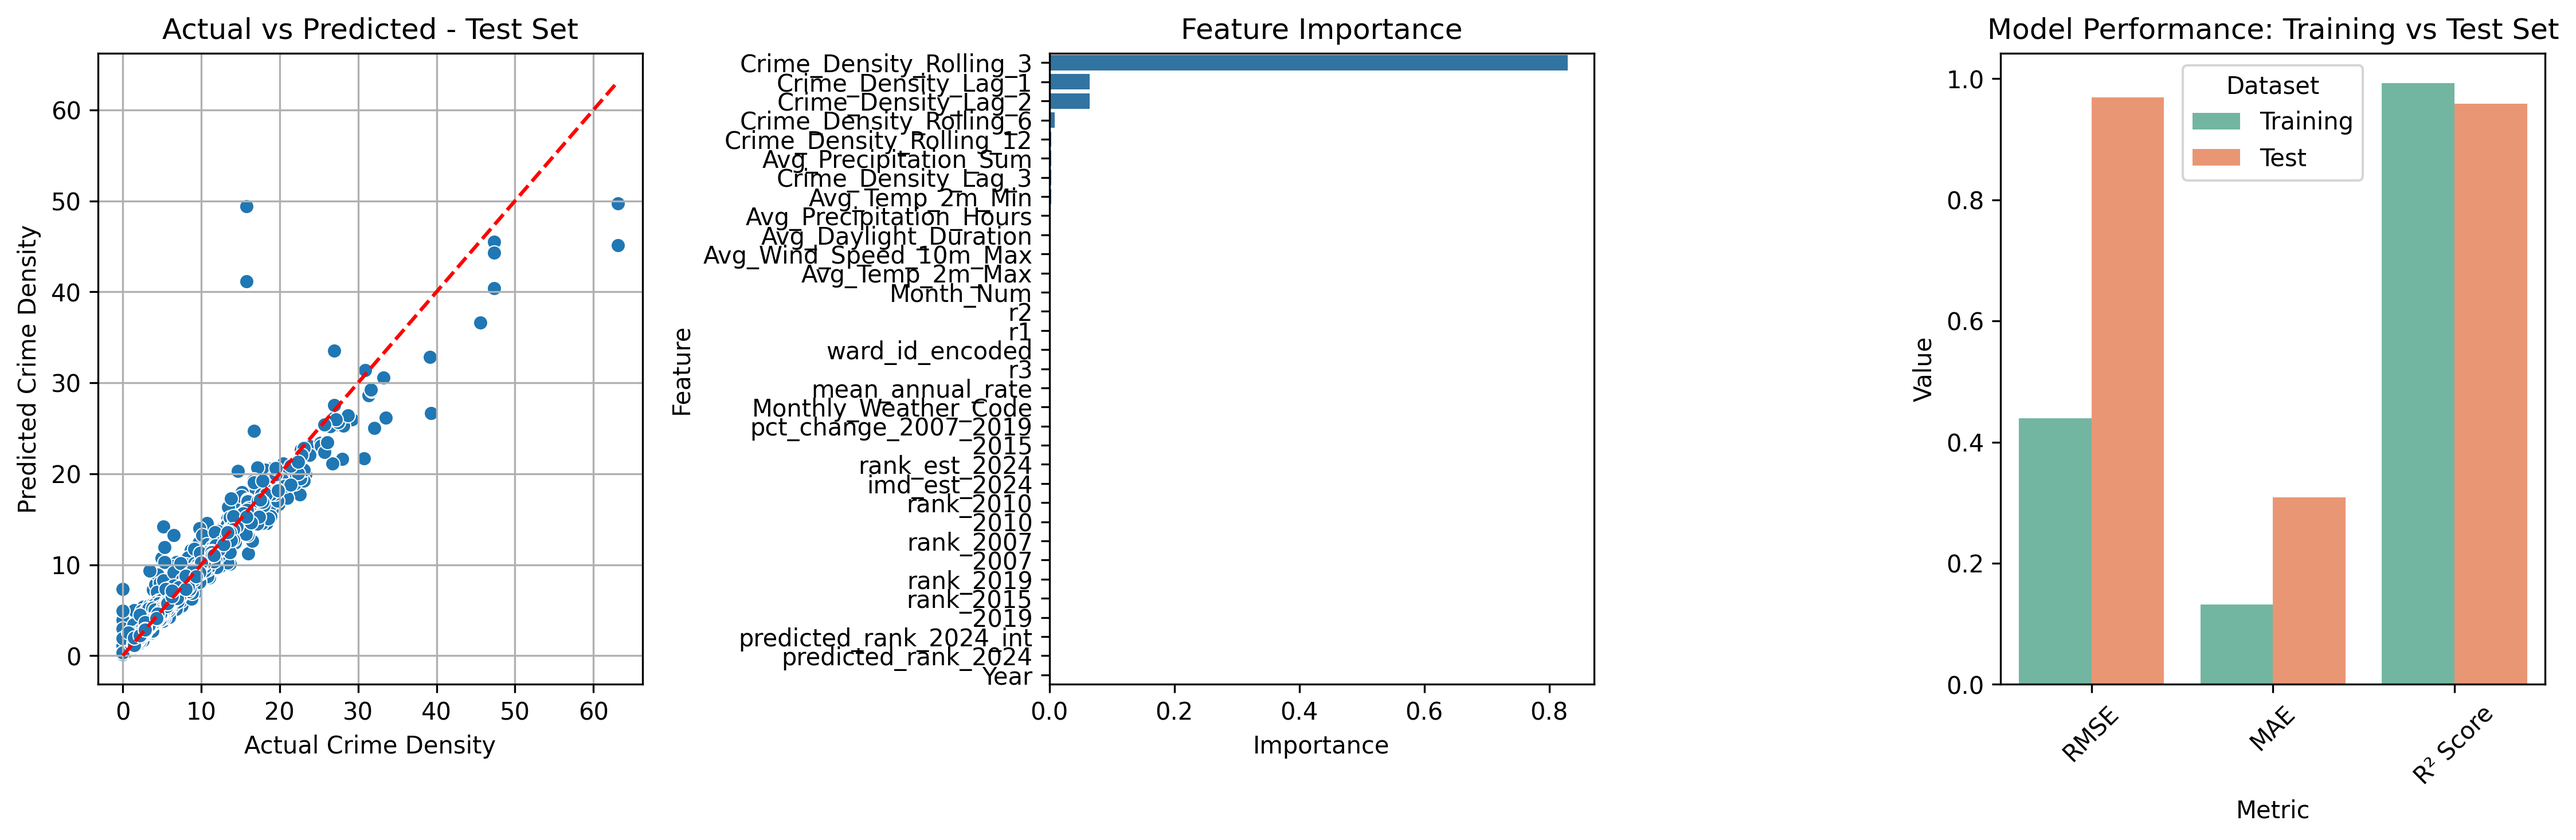
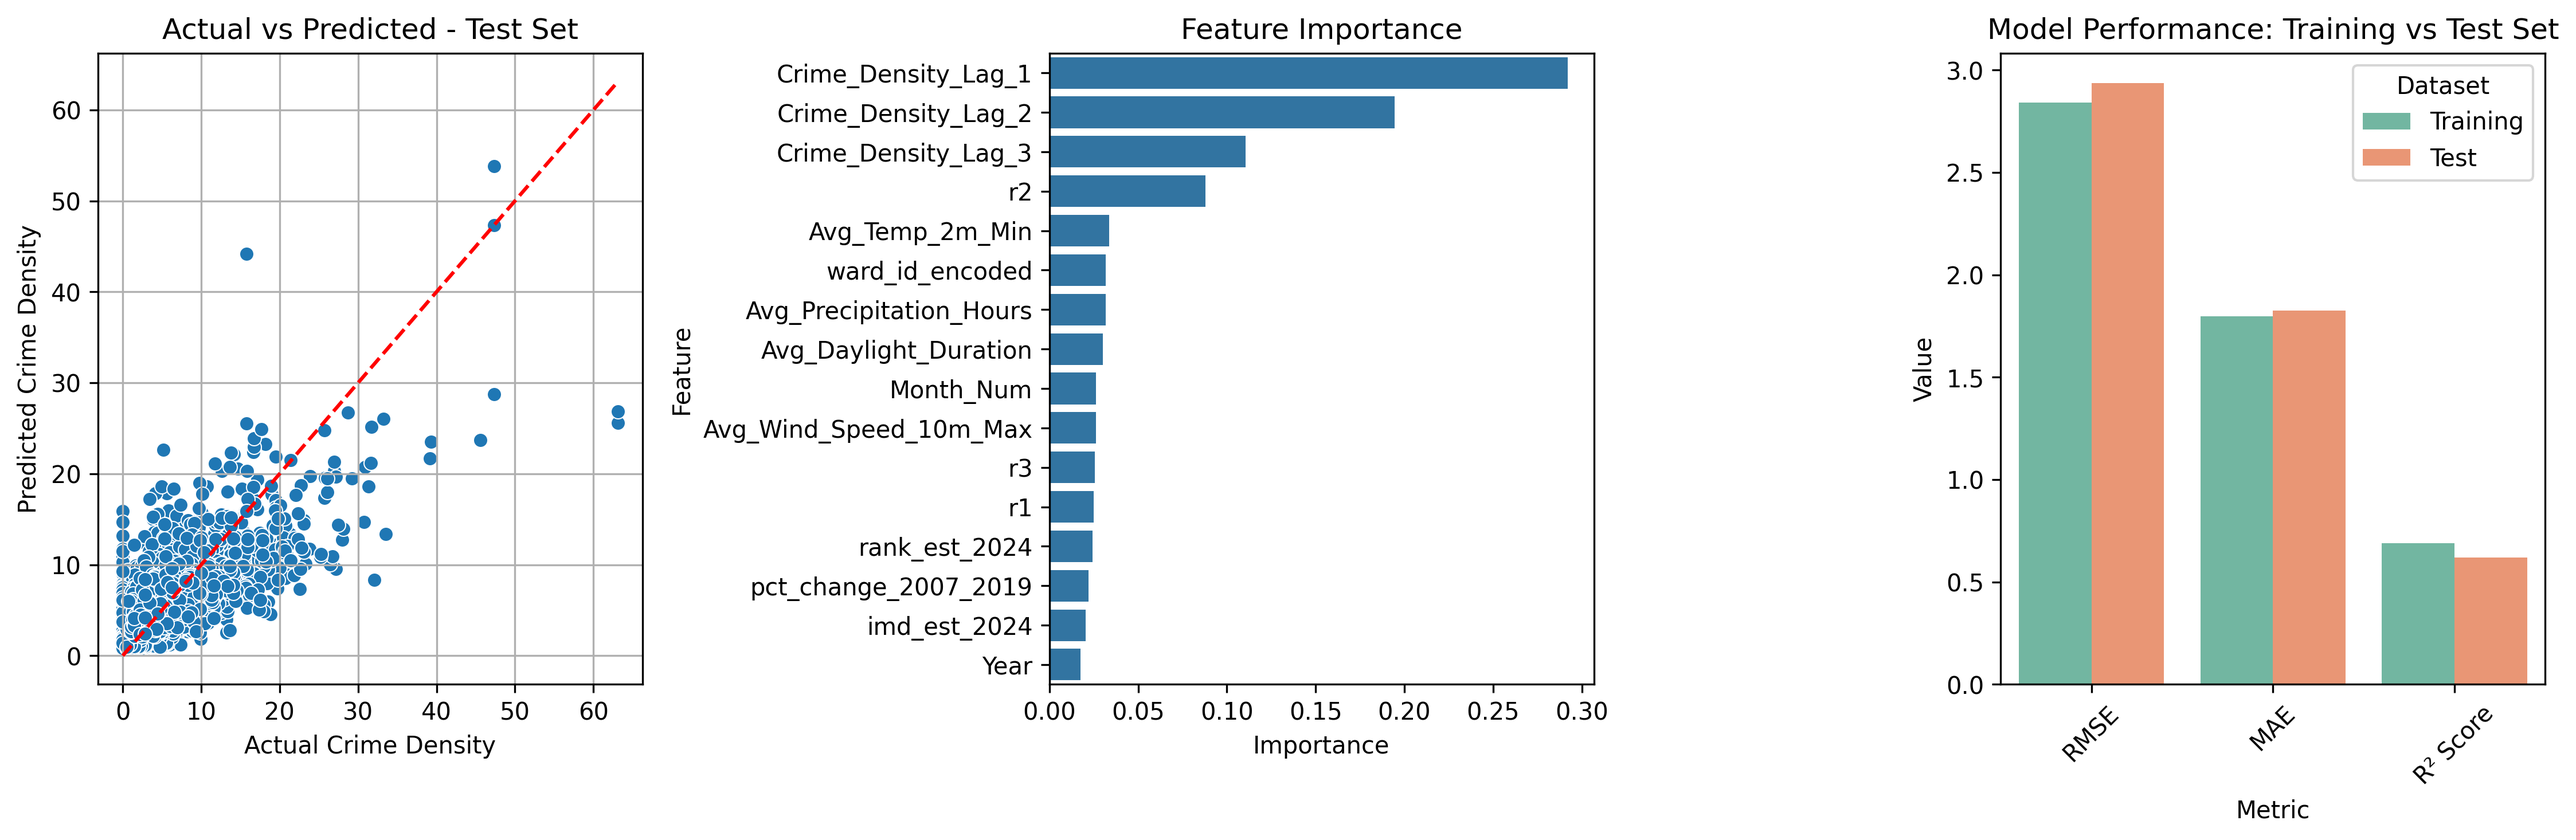
Selected different features for XGBoost model.

diff --git a/models/xgboost_model.py b/models/xgboost_model.py
@@ -193,17 +193,22 @@ try:
     # Define features
     lag_features = [f'Crime_Density_Lag_{lag}' for lag in [1, 2, 3]]
     rolling_features = [f'Crime_Density_Rolling_{window}' for window in [3, 6, 12]]
-    weather_features = ['Monthly_Weather_Code', 'Avg_Temp_2m_Min', 'Avg_Temp_2m_Max', 
-                       'Avg_Wind_Speed_10m_Max', 'Avg_Daylight_Duration', 
-                       'Avg_Precipitation_Sum', 'Avg_Precipitation_Hours']
-    imd_features = ['2007', '2010', '2015', '2019', 'pct_change_2007_2019', 
-                    'rank_2007', 'rank_2010', 'rank_2015', 'rank_2019',
-                    'predicted_rank_2024', 'predicted_rank_2024_int', 'r1', 'r2', 'r3',
-                    'mean_annual_rate', 'imd_est_2024', 'rank_est_2024']
+    # weather_features = ['Monthly_Weather_Code', 'Avg_Temp_2m_Min', 'Avg_Temp_2m_Max',
+    #                    'Avg_Wind_Speed_10m_Max', 'Avg_Daylight_Duration',
+    #                    'Avg_Precipitation_Sum', 'Avg_Precipitation_Hours']
+    # imd_features = ['2007', '2010', '2015', '2019', 'pct_change_2007_2019',
+    #                 'rank_2007', 'rank_2010', 'rank_2015', 'rank_2019',
+    #                 'predicted_rank_2024', 'predicted_rank_2024_int', 'r1', 'r2', 'r3',
+    #                 'mean_annual_rate', 'imd_est_2024', 'rank_est_2024']
+    weather_features = ['Avg_Temp_2m_Min',
+                       'Avg_Wind_Speed_10m_Max', 'Avg_Daylight_Duration',
+                       'Avg_Precipitation_Hours']
+    imd_features = ['pct_change_2007_2019',
+                    'imd_est_2024', 'rank_est_2024', 'r1', 'r2', 'r3',]
 
     # Filter features to only include those that exist in the dataset
     available_features = df_train.columns.tolist()
-    features = ['ward_id_encoded', 'Year', 'Month_Num'] + lag_features + rolling_features
+    features = ['ward_id_encoded', 'Year', 'Month_Num'] + lag_features #+ rolling_features
     features.extend([f for f in weather_features + imd_features if f in available_features])
 
     print("Using features:", features)
